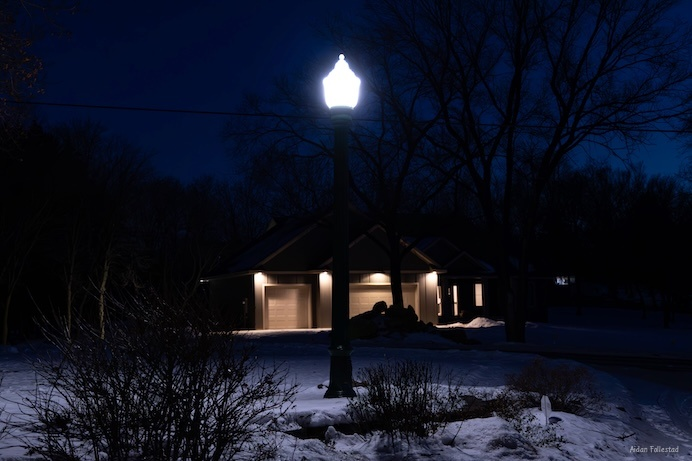
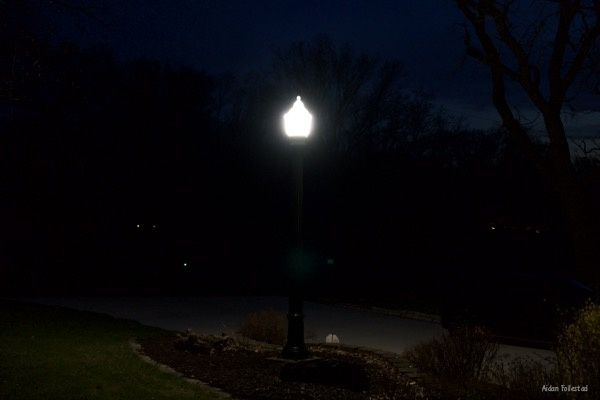
Refresh portfolio gallery with new shots.
- Added `redpanda`, `wingsout`, `goose`, `streettriple`, and `floodedpath` to `images/portfolio/`, each with a 2400x1600 full and 600x400 thumbnail.
- Replaced the old `light.jpg` with a new edit at the same path.
- Removed `willowriver_tree.jpg` and its thumbnail.
- Inserted the new shots at the top of the "Recent shots" section in `index.html`.

diff --git a/index.html b/index.html
@@ -245,7 +245,37 @@
             <h2>Recent shots</h2>
             <div class="columns">
                 <img
-                    src="images/portfolio/willowriver_tree_thumbnail.jpg"
+                    src="images/portfolio/redpanda_thumbnail.jpg"
+                    loading="lazy"
+                    decoding="async"
+                    class="column col-xs-12 col-sm-6 col-md-4 col-lg-3 col-xl-3 col-3 portfolio-image" />
+
+                <img
+                    src="images/portfolio/light_thumbnail.jpg"
+                    loading="lazy"
+                    decoding="async"
+                    class="column col-xs-12 col-sm-6 col-md-4 col-lg-3 col-xl-3 col-3 portfolio-image" />
+
+                <img
+                    src="images/portfolio/wingsout_thumbnail.jpg"
+                    loading="lazy"
+                    decoding="async"
+                    class="column col-xs-12 col-sm-6 col-md-4 col-lg-3 col-xl-3 col-3 portfolio-image" />
+
+                <img
+                    src="images/portfolio/goose_thumbnail.jpg"
+                    loading="lazy"
+                    decoding="async"
+                    class="column col-xs-12 col-sm-6 col-md-4 col-lg-3 col-xl-3 col-3 portfolio-image" />
+
+                <img
+                    src="images/portfolio/streettriple_thumbnail.jpg"
+                    loading="lazy"
+                    decoding="async"
+                    class="column col-xs-12 col-sm-6 col-md-4 col-lg-3 col-xl-3 col-3 portfolio-image" />
+
+                <img
+                    src="images/portfolio/floodedpath_thumbnail.jpg"
                     loading="lazy"
                     decoding="async"
                     class="column col-xs-12 col-sm-6 col-md-4 col-lg-3 col-xl-3 col-3 portfolio-image" />
@@ -354,12 +384,6 @@
 
                 <img
                     src="images/portfolio/moon_thumbnail.jpg"
-                    loading="lazy"
-                    decoding="async"
-                    class="column col-xs-12 col-sm-6 col-md-4 col-lg-3 col-xl-3 col-3 portfolio-image" />
-
-                <img
-                    src="images/portfolio/light_thumbnail.jpg"
                     loading="lazy"
                     decoding="async"
                     class="column col-xs-12 col-sm-6 col-md-4 col-lg-3 col-xl-3 col-3 portfolio-image" />